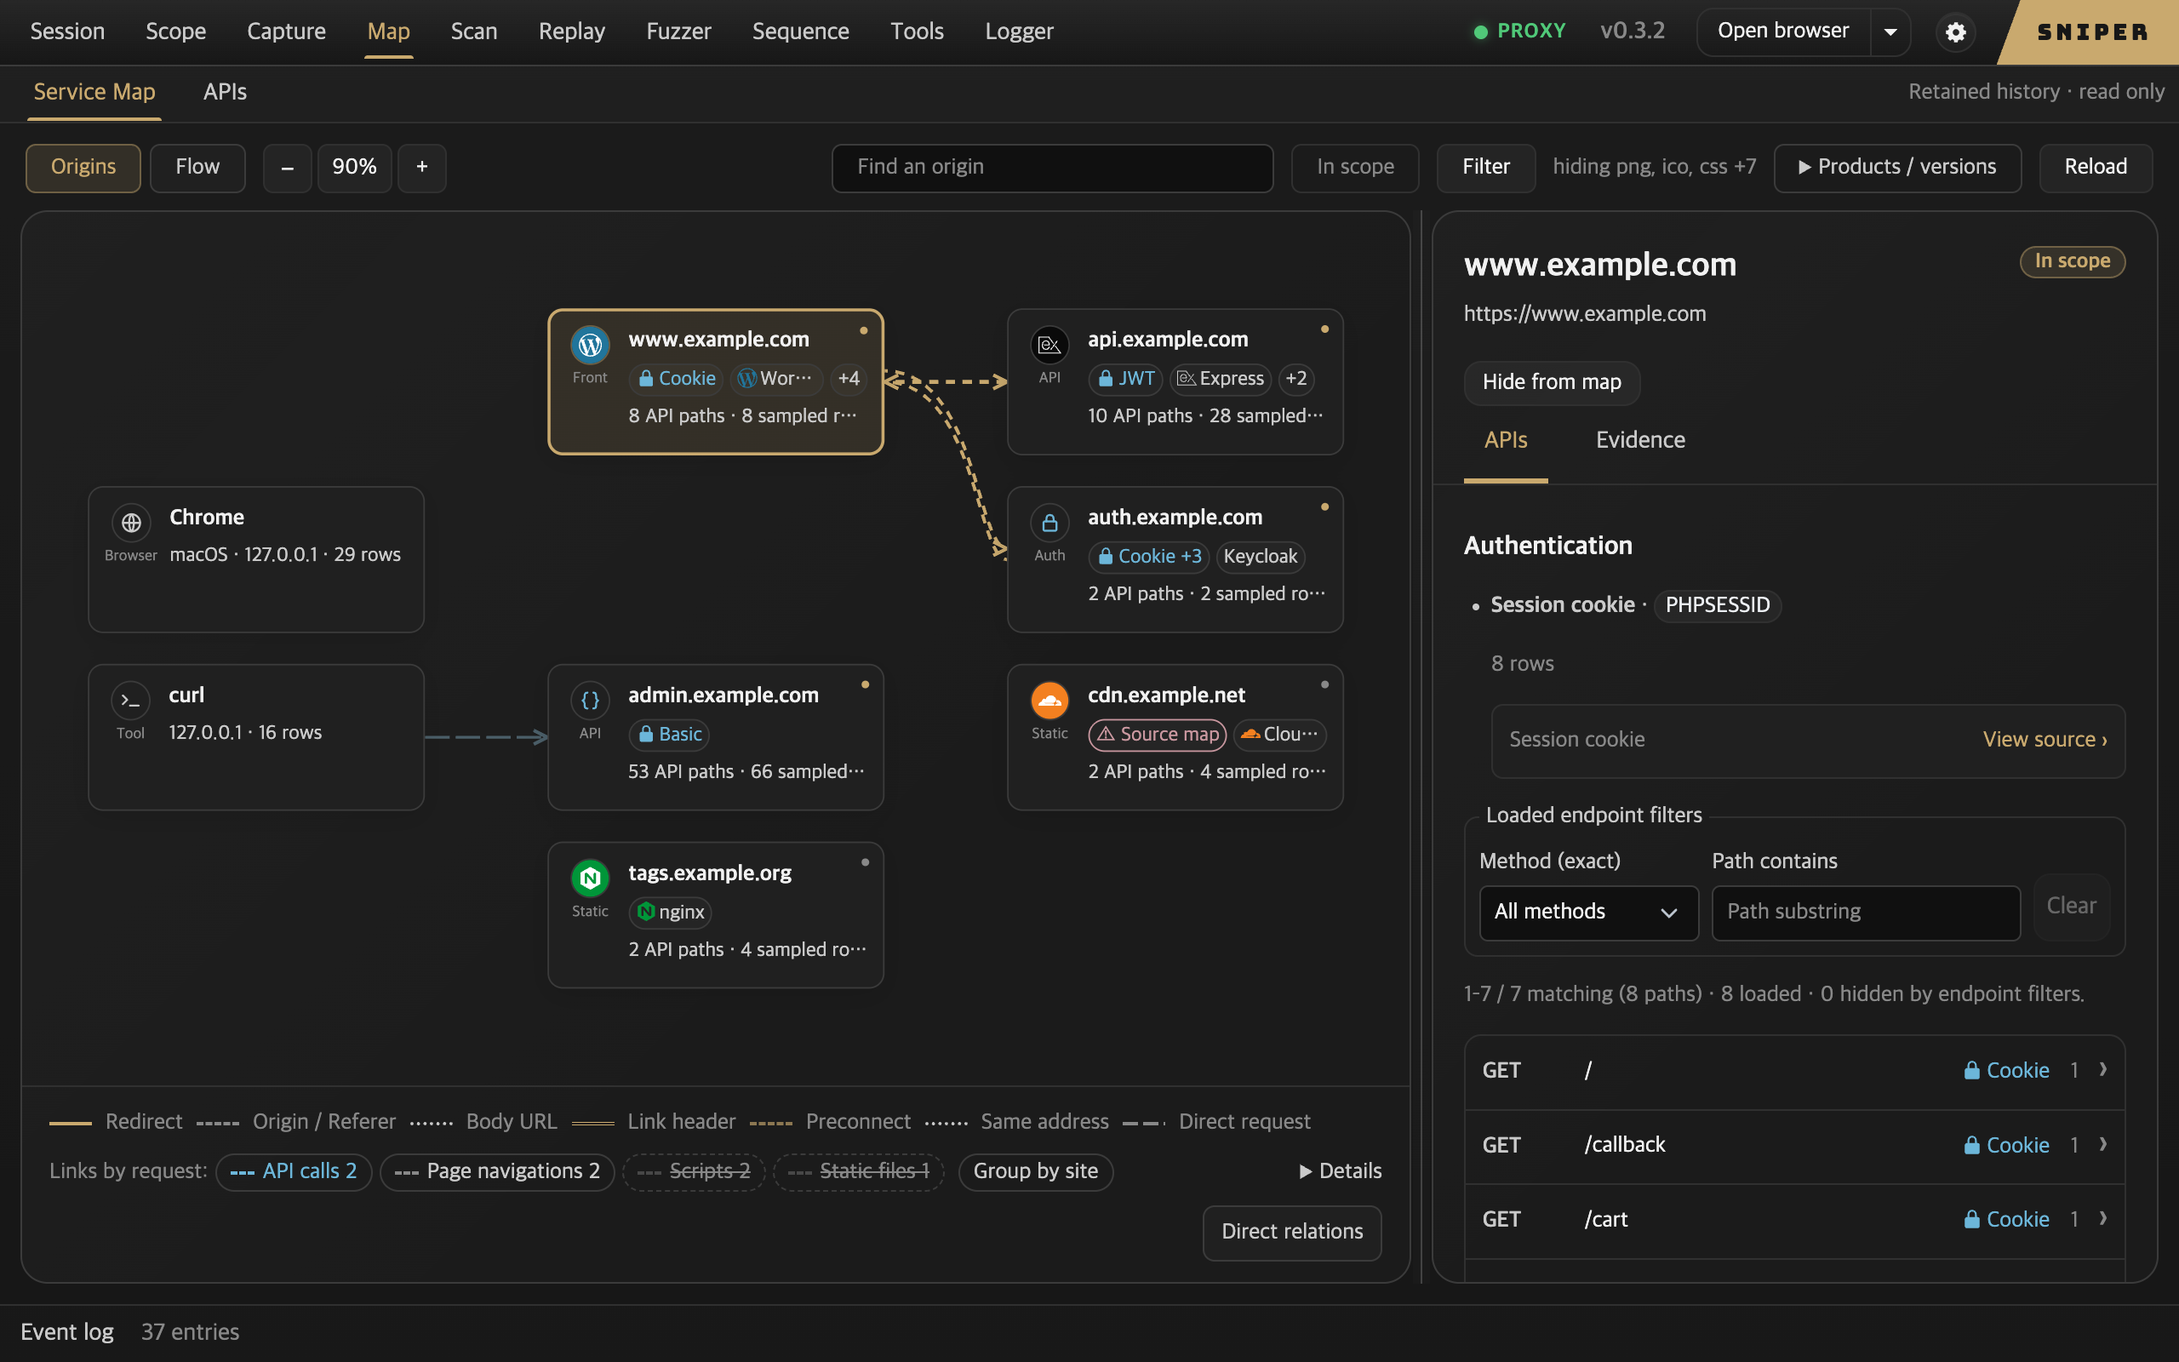
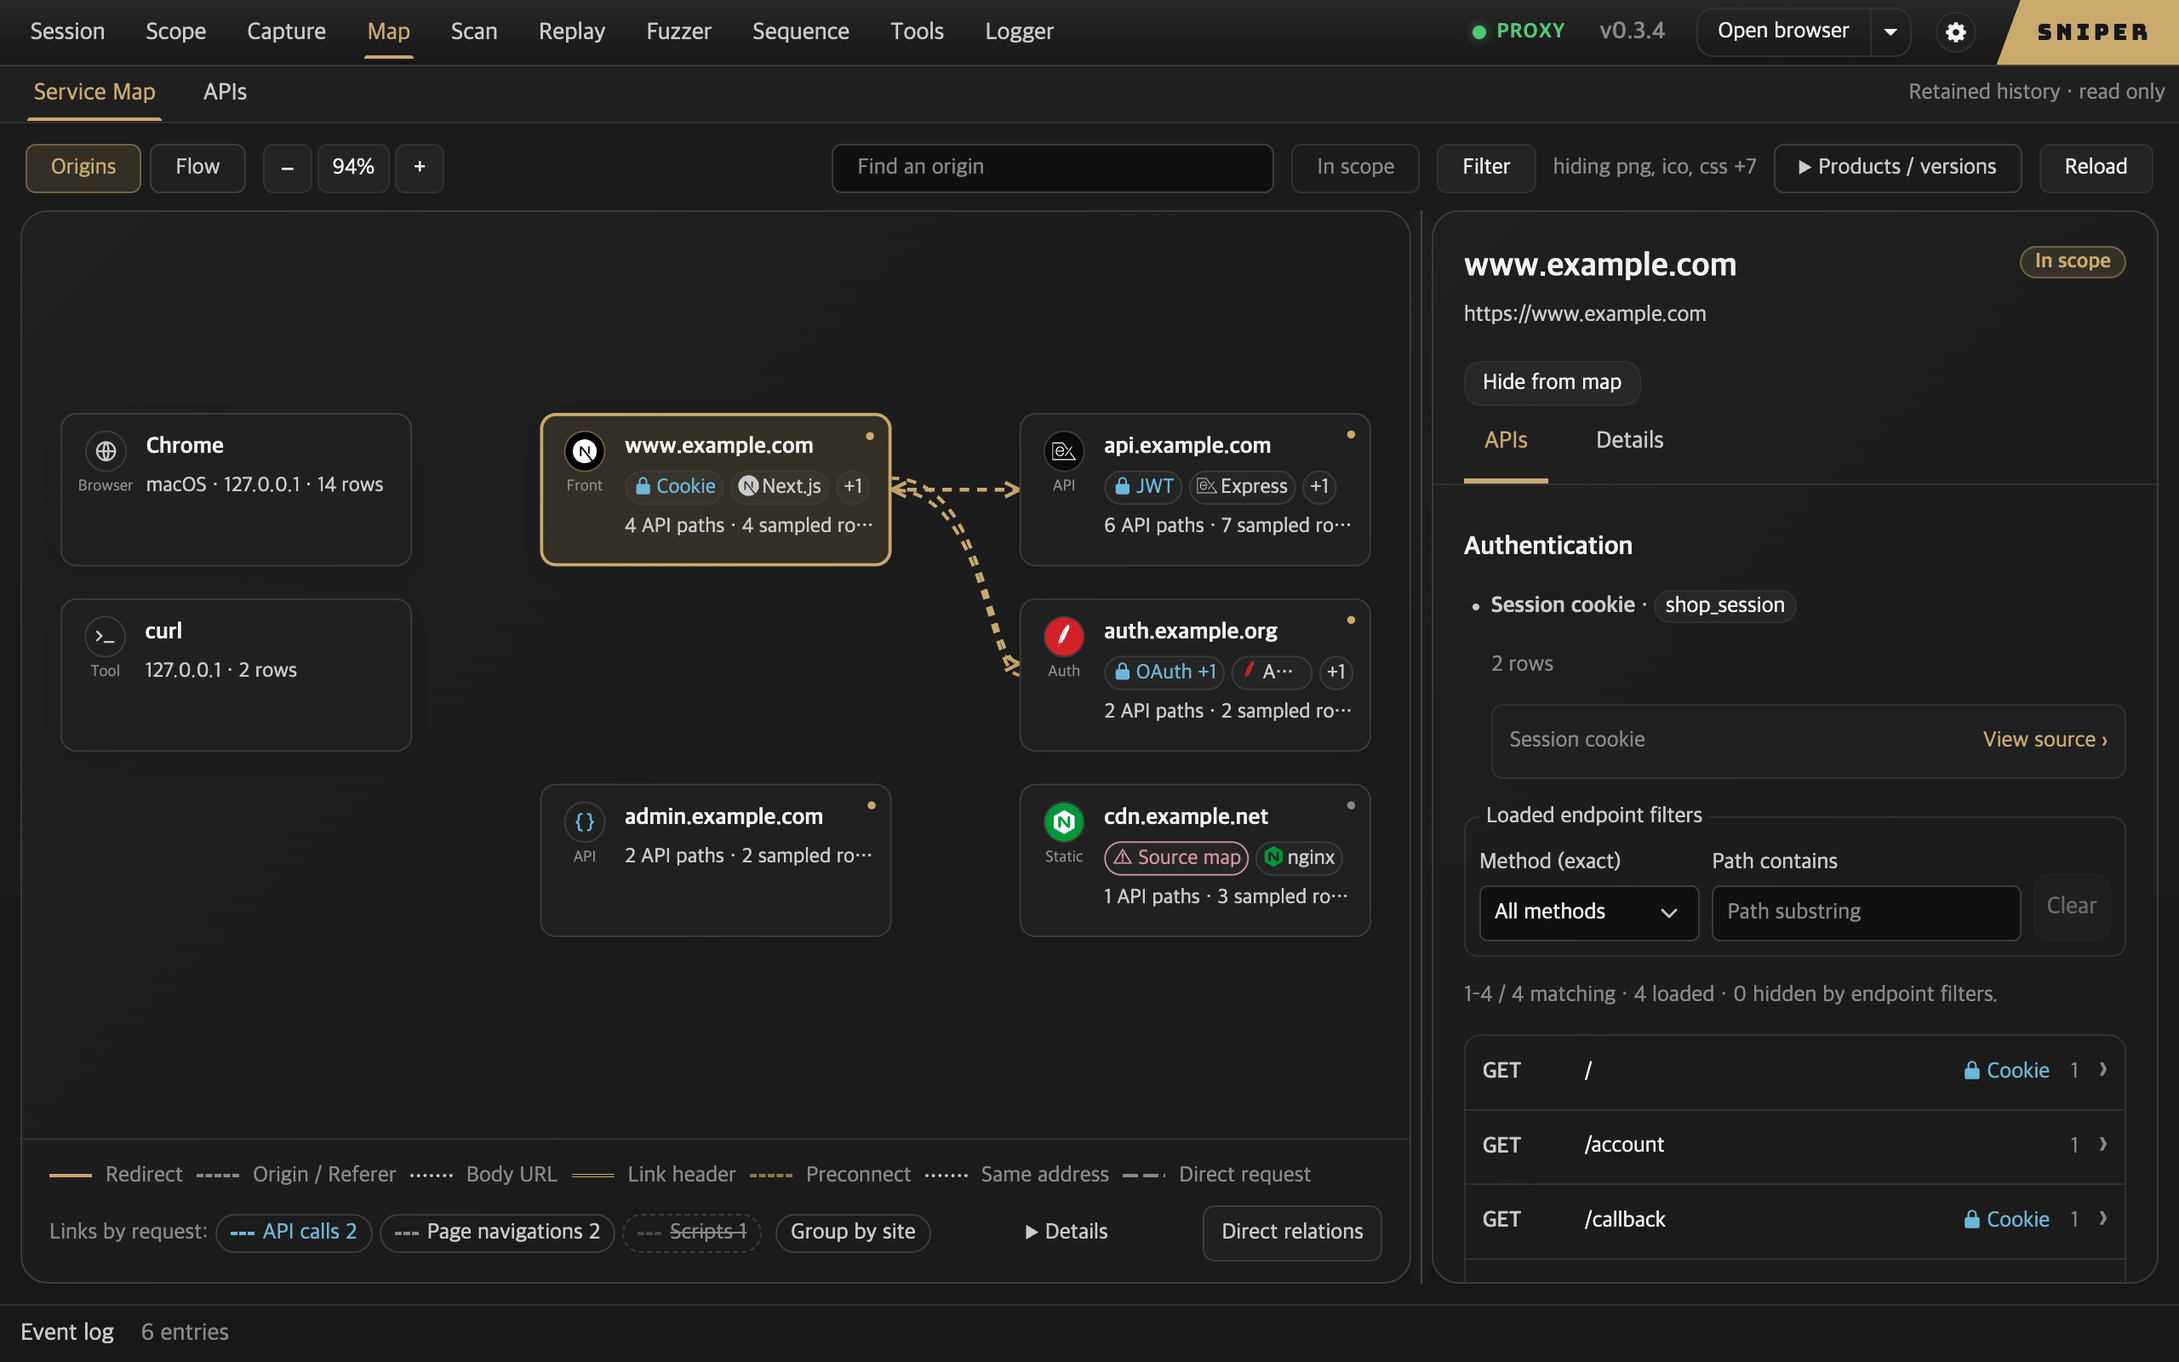
Retake the README and website screenshots in v0.3.4
The screenshots showed v0.3.2. Since then the screens lost their
kickers and explanatory lines, History shortened its filter summary and
dropped the default port from hosts, and the Session screen renames in
place and shows only the folder path. All ten are taken again in
v0.3.4, with the same layout, text size and synthetic example.com,
example.net and example.org traffic that a local mock server answered,
the template scan, Replay request and Fuzzer attack included.

NOTICE.txt records how, and the one change made: the Session screen's
folder path, which named the scratch directory, reads as the default
~/.sniper location. The v0.3.2 images stay for existing direct links.

diff --git a/docs/index.html b/docs/index.html
@@ -43,28 +43,28 @@
       <p><span>01</span> A native desktop app</p><p><span>02</span> Sessions saved locally</p><p><span>03</span> A scriptable CLI</p>
     </div>
     <figure class="product-preview wrap">
-      <a class="preview-image" href="assets/sniper-v0.3.2-http.jpg" aria-label="View the full Sniper v0.3.2 HTTP history screenshot">
-        <img src="assets/sniper-v0.3.2-http.jpg" alt="Sniper v0.3.2 with synthetic example.com traffic: Capture and HTTP selected, a tagged POST /v1/cart request with its note, and the request and response inspectors below." width="1152" height="720" loading="lazy">
+      <a class="preview-image" href="assets/sniper-v0.3.4-http.jpg" aria-label="View the full Sniper v0.3.4 HTTP history screenshot">
+        <img src="assets/sniper-v0.3.4-http.jpg" alt="Sniper v0.3.4 with synthetic example.com traffic: Capture and HTTP selected, a tagged POST /v1/cart request, and the request and response inspectors below." width="1152" height="720" loading="lazy">
       </a>
-      <figcaption><span>THE WORKSPACE</span><span>v0.3.2 · synthetic example.com traffic · <a href="assets/sniper-v0.3.2-http.jpg">View full image ↗</a></span></figcaption>
+      <figcaption><span>THE WORKSPACE</span><span>v0.3.4 · synthetic example.com traffic · <a href="assets/sniper-v0.3.4-http.jpg">View full image ↗</a></span></figcaption>
     </figure>
     <figure class="product-preview wrap">
-      <a class="preview-image" href="assets/sniper-v0.3.2-map.jpg" aria-label="View the full Sniper v0.3.2 Service Map screenshot">
-        <img src="assets/sniper-v0.3.2-map.jpg" alt="The Map tool on the same traffic: the browser and curl clients, the shop's page, API, sign-in, admin, CDN and analytics origins with the servers, frameworks and sign-in each one shows, and www.example.com's endpoints in the inspector." width="1152" height="720" loading="lazy">
+      <a class="preview-image" href="assets/sniper-v0.3.4-map.jpg" aria-label="View the full Sniper v0.3.4 Service Map screenshot">
+        <img src="assets/sniper-v0.3.4-map.jpg" alt="The Map tool on the same traffic: the browser and curl clients, the shop's page, API, sign-in, admin and CDN origins with the servers, frameworks and sign-in each one shows, and www.example.com's endpoints in the inspector." width="1152" height="720" loading="lazy">
       </a>
-      <figcaption><span>THE MAP</span><span>v0.3.2 · the same traffic as a Service Map · <a href="assets/sniper-v0.3.2-map.jpg">View full image ↗</a></span></figcaption>
+      <figcaption><span>THE MAP</span><span>v0.3.4 · the same traffic as a Service Map · <a href="assets/sniper-v0.3.4-map.jpg">View full image ↗</a></span></figcaption>
     </figure>
     <section class="tour wrap section-space" id="tour" aria-labelledby="tour-title">
-      <div class="section-intro"><p class="eyebrow">Screenshots</p><h2 id="tour-title">Each tool</h2><p>Captured from Sniper v0.3.2 with synthetic example.com traffic.</p></div>
+      <div class="section-intro"><p class="eyebrow">Screenshots</p><h2 id="tour-title">Each tool</h2><p>Captured from Sniper v0.3.4 with synthetic example.com traffic.</p></div>
       <div class="tour-grid">
-        <figure><a class="preview-image" href="assets/sniper-v0.3.2-session.jpg"><img src="assets/sniper-v0.3.2-session.jpg" alt="The Session screen: three sessions with their size, requests and findings, and the selected session's scope, busiest hosts, pinned Replay tab, Replace rules, manual scan and findings." width="1152" height="720" loading="lazy"></a><figcaption><strong>Session</strong>What every session holds before you open it: size, requests, findings, scope, pins, rules and scans.</figcaption></figure>
-        <figure><a class="preview-image" href="assets/sniper-v0.3.2-replay.jpg"><img src="assets/sniper-v0.3.2-replay.jpg" alt="Replay with a pinned tab named Cart total check: a POST /v1/cart request on the left and its 201 JSON response on the right." width="1152" height="720" loading="lazy"></a><figcaption><strong>Replay</strong>Edit a captured request, send it again and read the answer beside it.</figcaption></figure>
-        <figure><a class="preview-image" href="assets/sniper-v0.3.2-scan.jpg"><img src="assets/sniper-v0.3.2-scan.jpg" alt="Scan, Active Scan: 14,035 Nuclei templates imported, a finished manual scan of admin.example.com with two matches, and the matched /actuator/env request and response." width="1152" height="720" loading="lazy"></a><figcaption><strong>Scan ▸ Active Scan</strong>Run Nuclei templates against targets you name; a match opens with the exchange that proved it.</figcaption></figure>
-        <figure><a class="preview-image" href="assets/sniper-v0.3.2-intercept.jpg"><img src="assets/sniper-v0.3.2-intercept.jpg" alt="Intercept holding a POST /v1/cart request in the request queue, with its headers and JSON body open for editing and Drop and Forward buttons." width="1152" height="720" loading="lazy"></a><figcaption><strong>Intercept</strong>Hold a request on its way out, edit it, then forward or drop it.</figcaption></figure>
-        <figure><a class="preview-image" href="assets/sniper-v0.3.2-fuzzer.jpg"><img src="assets/sniper-v0.3.2-fuzzer.jpg" alt="The Fuzzer with a marked page parameter and its results sorted by status: quote payloads answered 500, others 400." width="1152" height="720" loading="lazy"></a><figcaption><strong>Fuzzer</strong>Send payload lists at marked positions and compare status, length and timing.</figcaption></figure>
-        <figure><a class="preview-image" href="assets/sniper-v0.3.2-findings.jpg"><img src="assets/sniper-v0.3.2-findings.jpg" alt="Findings from passive checks and template matches, with a Spring Boot health endpoint selected and the matched words highlighted in its response." width="1152" height="720" loading="lazy"></a><figcaption><strong>Findings</strong>Passive checks and template matches, each with its evidence highlighted.</figcaption></figure>
-        <figure><a class="preview-image" href="assets/sniper-v0.3.2-flow.jpg"><img src="assets/sniper-v0.3.2-flow.jpg" alt="Map, Flow: the client, www.example.com, api.example.com and cdn.example.net as lanes, with each page load's requests drawn in time order." width="1152" height="720" loading="lazy"></a><figcaption><strong>Map ▸ Flow</strong>One origin's requests in time order, page load by page load.</figcaption></figure>
-        <figure><a class="preview-image" href="assets/sniper-v0.3.2-tools.jpg"><img src="assets/sniper-v0.3.2-tools.jpg" alt="Tools with a JWT pasted in: the JWT tool opened by itself, with the decoded header and claims and alg none variants." width="1152" height="720" loading="lazy"></a><figcaption><strong>Tools</strong>A pasted JWT opens the JWT tool: header and claims decoded, <code>alg: none</code> variants ready.</figcaption></figure>
+        <figure><a class="preview-image" href="assets/sniper-v0.3.4-session.jpg"><img src="assets/sniper-v0.3.4-session.jpg" alt="The Session screen: three sessions with their size, requests and findings, and the selected session's scope, busiest hosts, pinned Replay tab, Replace rules, manual scan and findings." width="1152" height="720" loading="lazy"></a><figcaption><strong>Session</strong>What every session holds before you open it: size, requests, findings, scope, pins, rules and scans.</figcaption></figure>
+        <figure><a class="preview-image" href="assets/sniper-v0.3.4-replay.jpg"><img src="assets/sniper-v0.3.4-replay.jpg" alt="Replay with a pinned tab named Cart total check: a POST /v1/cart request on the left and its 201 JSON response on the right." width="1152" height="720" loading="lazy"></a><figcaption><strong>Replay</strong>Edit a captured request, send it again and read the answer beside it.</figcaption></figure>
+        <figure><a class="preview-image" href="assets/sniper-v0.3.4-scan.jpg"><img src="assets/sniper-v0.3.4-scan.jpg" alt="Scan, Active Scan: 14,103 Nuclei templates imported, a finished manual scan of admin.example.com with two matches, and the matched /env request and response." width="1152" height="720" loading="lazy"></a><figcaption><strong>Scan ▸ Active Scan</strong>Run Nuclei templates against targets you name; a match opens with the exchange that proved it.</figcaption></figure>
+        <figure><a class="preview-image" href="assets/sniper-v0.3.4-intercept.jpg"><img src="assets/sniper-v0.3.4-intercept.jpg" alt="Intercept holding a POST /v1/cart request in the request queue, with its headers and JSON body open for editing and Drop and Forward buttons." width="1152" height="720" loading="lazy"></a><figcaption><strong>Intercept</strong>Hold a request on its way out, edit it, then forward or drop it.</figcaption></figure>
+        <figure><a class="preview-image" href="assets/sniper-v0.3.4-fuzzer.jpg"><img src="assets/sniper-v0.3.4-fuzzer.jpg" alt="The Fuzzer with a marked page parameter and its results sorted by status: quote payloads answered 500, others 400." width="1152" height="720" loading="lazy"></a><figcaption><strong>Fuzzer</strong>Send payload lists at marked positions and compare status, length and timing.</figcaption></figure>
+        <figure><a class="preview-image" href="assets/sniper-v0.3.4-findings.jpg"><img src="assets/sniper-v0.3.4-findings.jpg" alt="Findings from passive checks and template matches, with a Spring Boot health endpoint selected and the matched words highlighted in its response." width="1152" height="720" loading="lazy"></a><figcaption><strong>Findings</strong>Passive checks and template matches, each with its evidence highlighted.</figcaption></figure>
+        <figure><a class="preview-image" href="assets/sniper-v0.3.4-flow.jpg"><img src="assets/sniper-v0.3.4-flow.jpg" alt="Map, Flow: the client, www.example.com, api.example.com and auth.example.org as lanes, with each page load's requests and redirects drawn in time order." width="1152" height="720" loading="lazy"></a><figcaption><strong>Map ▸ Flow</strong>One origin's requests in time order, page load by page load.</figcaption></figure>
+        <figure><a class="preview-image" href="assets/sniper-v0.3.4-tools.jpg"><img src="assets/sniper-v0.3.4-tools.jpg" alt="Tools with a JWT pasted in: the JWT tool opened by itself, with the decoded header and claims and alg none variants." width="1152" height="720" loading="lazy"></a><figcaption><strong>Tools</strong>A pasted JWT opens the JWT tool: header and claims decoded, <code>alg: none</code> variants ready.</figcaption></figure>
       </div>
     </section>
     <section class="workflow wrap section-space" id="workflow" aria-labelledby="workflow-title">

diff --git a/README.md b/README.md
@@ -117,14 +117,14 @@ Defaults: the proxy on `127.0.0.1:8080`, the headless server's UI on `127.0.0.1:
 
 ## Screenshots
 
-All captured from Sniper v0.3.2 with synthetic example.com traffic.
+All captured from Sniper v0.3.4 with synthetic example.com traffic.
 
 ### Session
 
 Each session's size, requests, findings, scope, pins, rules and scans, before you open it.
 
 <p align="center">
-  <img src="docs/assets/sniper-v0.3.2-session.jpg" width="800" alt="The Session screen: three sessions with their size, requests and findings, and the selected session's scope, busiest hosts, pinned Replay tab, Replace rules, manual scan and findings" />
+  <img src="docs/assets/sniper-v0.3.4-session.jpg" width="800" alt="The Session screen: three sessions with their size, requests and findings, and the selected session's scope, busiest hosts, pinned Replay tab, Replace rules, manual scan and findings" />
 </p>
 
 ### Replay
@@ -132,7 +132,7 @@ Each session's size, requests, findings, scope, pins, rules and scans, before yo
 Edit a captured request, send it again and read the answer beside it.
 
 <p align="center">
-  <img src="docs/assets/sniper-v0.3.2-replay.jpg" width="800" alt="Replay with a pinned tab named Cart total check: a POST /v1/cart request on the left and its 201 JSON response on the right" />
+  <img src="docs/assets/sniper-v0.3.4-replay.jpg" width="800" alt="Replay with a pinned tab named Cart total check: a POST /v1/cart request on the left and its 201 JSON response on the right" />
 </p>
 
 ### Scan ▸ Active Scan
@@ -140,7 +140,7 @@ Edit a captured request, send it again and read the answer beside it.
 Run Nuclei templates against targets you name; a match opens with the exchange that proved it.
 
 <p align="center">
-  <img src="docs/assets/sniper-v0.3.2-scan.jpg" width="800" alt="Scan, Active Scan: 14,035 Nuclei templates imported, a finished manual scan of admin.example.com with two matches, and the matched /actuator/env request and response" />
+  <img src="docs/assets/sniper-v0.3.4-scan.jpg" width="800" alt="Scan, Active Scan: 14,103 Nuclei templates imported, a finished manual scan of admin.example.com with two matches, and the matched /env request and response" />
 </p>
 
 ### Intercept
@@ -148,7 +148,7 @@ Run Nuclei templates against targets you name; a match opens with the exchange t
 Hold a request on its way out, edit it, then forward or drop it.
 
 <p align="center">
-  <img src="docs/assets/sniper-v0.3.2-intercept.jpg" width="800" alt="Intercept holding a POST /v1/cart request in the request queue, with its headers and JSON body open for editing and Drop and Forward buttons" />
+  <img src="docs/assets/sniper-v0.3.4-intercept.jpg" width="800" alt="Intercept holding a POST /v1/cart request in the request queue, with its headers and JSON body open for editing and Drop and Forward buttons" />
 </p>
 
 ### Fuzzer
@@ -158,7 +158,7 @@ The [Fuzzer quick start (한국어)](docs/guides/fuzzer-assisted-workflow.ko.md)
 shows what to paste, how to mark a value and how to preview before sending.
 
 <p align="center">
-  <img src="docs/assets/sniper-v0.3.2-fuzzer.jpg" width="800" alt="The Fuzzer with a marked page parameter and its results sorted by status: quote payloads answered 500, others 400" />
+  <img src="docs/assets/sniper-v0.3.4-fuzzer.jpg" width="800" alt="The Fuzzer with a marked page parameter and its results sorted by status: quote payloads answered 500, others 400" />
 </p>
 
 ### Findings
@@ -166,7 +166,7 @@ shows what to paste, how to mark a value and how to preview before sending.
 Passive checks and template matches, each with its evidence highlighted.
 
 <p align="center">
-  <img src="docs/assets/sniper-v0.3.2-findings.jpg" width="800" alt="Findings from passive checks and template matches, with a Spring Boot health endpoint selected and the matched words highlighted in its response" />
+  <img src="docs/assets/sniper-v0.3.4-findings.jpg" width="800" alt="Findings from passive checks and template matches, with a Spring Boot health endpoint selected and the matched words highlighted in its response" />
 </p>
 
 ### Map ▸ Flow
@@ -174,7 +174,7 @@ Passive checks and template matches, each with its evidence highlighted.
 One origin's requests in time order, page load by page load.
 
 <p align="center">
-  <img src="docs/assets/sniper-v0.3.2-flow.jpg" width="800" alt="Map, Flow: the client, www.example.com, api.example.com and cdn.example.net as lanes, with each page load's requests drawn in time order" />
+  <img src="docs/assets/sniper-v0.3.4-flow.jpg" width="800" alt="Map, Flow: the client, www.example.com, api.example.com and auth.example.org as lanes, with each page load's requests and redirects drawn in time order" />
 </p>
 
 ### Tools
@@ -182,7 +182,7 @@ One origin's requests in time order, page load by page load.
 A pasted JWT opens the JWT tool: header and claims decoded, <code>alg: none</code> variants ready.
 
 <p align="center">
-  <img src="docs/assets/sniper-v0.3.2-tools.jpg" width="800" alt="Tools with a JWT pasted in: the JWT tool opened by itself, with the decoded header and claims and alg none variants" />
+  <img src="docs/assets/sniper-v0.3.4-tools.jpg" width="800" alt="Tools with a JWT pasted in: the JWT tool opened by itself, with the decoded header and claims and alg none variants" />
 </p>
 
 ## CLI and AI agents
